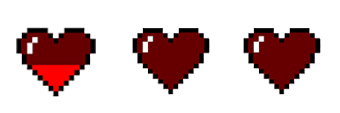
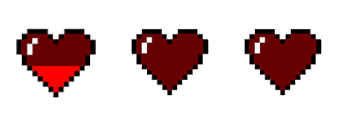
add enemy

diff --git a/ProjectGame/main.cpp b/ProjectGame/main.cpp
@@ -20,6 +20,8 @@ int main()
 	//window
 	sf::RenderWindow window(sf::VideoMode(1000, 768), "OverWhelm!", sf::Style::Titlebar | sf::Style::Close);
 	window.setFramerateLimit(60);
+	sf::Clock clock;
+
 
 	//variable
 	float deltatime = 0.0f;
@@ -28,7 +30,10 @@ int main()
 	int CountBulletEnemymini = 0;
 	int score = 0;
 	int blood = 6;
+	int collistion = 0;
+	float CountTime = 0;
 	srand(time(NULL));
+
 
 	//background
 	sf::Texture bgTexture[2];
@@ -82,7 +87,17 @@ int main()
 	sf::Texture enemySmallOrange;
 	enemySmallOrange.loadFromFile("enemy/mini1.png");
 	Enemy Enemymini1(&enemySmallOrange);
-	vector<Enemy> enemies;
+	vector<Enemy> enemies1;
+
+	sf::Texture enemySmallArmy;
+	enemySmallArmy.loadFromFile("enemy/mini2.png");
+	Enemy Enemymini2(&enemySmallArmy);
+	vector<Enemy> enemies2;
+
+	sf::Texture enemyMediumOrange;
+	enemyMediumOrange.loadFromFile("enemy/medium1.png");
+	Enemy Enemymedium1(&enemyMediumOrange);
+	vector<Enemy> enemies3;
 
 	//enemies animation
 	Animation animation(&enemySmallOrange, sf::Vector2u(1, 3), 0.3f);
@@ -109,7 +124,7 @@ int main()
 	sf::Texture blood3;
 	blood3.loadFromFile("blood/3.png");
 	sf::Sprite bloodHalfnd;
-	bloodHalfnd.setTexture(blood0);
+	bloodHalfnd.setTexture(blood3);
 	bloodHalfnd.setPosition(60, 670);
 	bloodHalfnd.setScale(0.8, 0.8);
 	sf::Texture blood4;
@@ -143,8 +158,6 @@ int main()
 	textscore.setPosition(40, 0);
 	textscore.setCharacterSize(40);
 
-
-	sf::Clock clock;
 
 	while (window.isOpen())
 	{
@@ -193,6 +206,9 @@ int main()
 				break;
 			}
 		}
+	
+		CountTime += deltatime;
+		cout << CountTime << endl;
 
 			//Spacebar KeyPressed 
 			if (firerate < 20) { firerate++; }
@@ -228,52 +244,155 @@ int main()
 			if (enemySpawnTimer >= 50)
 			{
 				Enemymini1.Sprite_enemy.setPosition(window.getSize().x, rand() % int(window.getSize().y - Enemymini1.Sprite_enemy.getSize().y));
-				enemies.push_back(Enemy(Enemymini1));
+				enemies1.push_back(Enemy(Enemymini1));
+
+				if (CountTime >= 30)
+				{
+					Enemymini2.Sprite_enemy.setPosition(window.getSize().x, rand() % int(window.getSize().y - Enemymini2.Sprite_enemy.getSize().y));
+					enemies2.push_back(Enemy(Enemymini2));
+				}
+
+				if (CountTime >= 60)
+				{
+					Enemymedium1.Sprite_enemy.setPosition(window.getSize().x, rand() % int(window.getSize().y - Enemymedium1.Sprite_enemy.getSize().y));
+					enemies3.push_back(Enemy(Enemymedium1));
+				}
 
 				enemySpawnTimer = 0;
 			}
 
-			for (int i = 0; i < enemies.size(); i++)
+			for (int i = 0; i < enemies1.size(); i++)
 			{
-				enemies[i].Update(deltatime , i);
-				/*cout << cos(i) << endl;*/
-				if (enemies[i].Sprite_enemy.getPosition().x < -130)
+				enemies1[i].Update(deltatime , i);
+				if (enemies1[i].Sprite_enemy.getPosition().x < -130)
 				{
-					enemies.erase(enemies.begin() + i);
+					enemies1.erase(enemies1.begin() + i);
+				}
+		
+			}
+
+			for (int i = 0; i < enemies2.size(); i++)
+			{
+				enemies2[i].Update(deltatime, i);
+				if (enemies2[i].Sprite_enemy.getPosition().x < -130)
+				{
+					enemies2.erase(enemies2.begin() + i);
 				}
 
 			}
 
+			for (int i = 0; i < enemies3.size(); i++)
+			{
+				enemies3[i].Update(deltatime, i);
+				if (enemies3[i].Sprite_enemy.getPosition().x < -130)
+				{
+					enemies3.erase(enemies3.begin() + i);
+				}
+
+			}
 
 			//collistion
 			for (size_t i = 0; i < bullets.size(); i++)
 			{
-				for (size_t j = 0; j < enemies.size(); j++)
+				for (size_t j = 0; j < enemies1.size(); j++)
 				{
-					if (bullets[i].Sprite_bullet.getGlobalBounds().intersects(enemies[j].Sprite_enemy.getGlobalBounds()))
+					if (bullets[i].Sprite_bullet.getGlobalBounds().intersects(enemies1[j].Sprite_enemy.getGlobalBounds()))
 					{
+						collistion += 1;
 						bullets.erase(bullets.begin() + i);
-						enemies.erase(enemies.begin() + j);
+						if (collistion == 1)
+						{
+						enemies1.erase(enemies1.begin() + j);
 						score += 10;
+						}
 						//UI
 						textscore.setString("SCORE : " + to_string(score));
 						break;
 					}
+					collistion = 0;
 				}
 
 			}
 
-			//collistion player vs enemy
-			for (size_t i = 0; i < enemies.size(); i++)
+			for (size_t i = 0; i < bullets.size(); i++)
 			{
-				if (player.Sprite_ship.getGlobalBounds().intersects(enemies[i].Sprite_enemy.getGlobalBounds()))
+				for (size_t j = 0; j < enemies2.size(); j++)
 				{
-					enemies.erase(enemies.begin() + i);
+					if (bullets[i].Sprite_bullet.getGlobalBounds().intersects(enemies2[j].Sprite_enemy.getGlobalBounds()))
+					{
+						collistion += 1;
+						bullets.erase(bullets.begin() + i);
+						if (collistion == 1)
+						{
+						enemies2.erase(enemies2.begin() + j);
+						score += 10;
+						}
+						//UI
+						textscore.setString("SCORE : " + to_string(score));
+						break;
+					}
+					collistion = 0;
+				}
+
+			}
+
+
+			for (size_t i = 0; i < bullets.size(); i++)
+			{
+				for (size_t j = 0; j < enemies3.size(); j++)
+				{
+					if (bullets[i].Sprite_bullet.getGlobalBounds().intersects(enemies3[j].Sprite_enemy.getGlobalBounds()))
+					{
+						collistion += 1;
+						bullets.erase(bullets.begin() + i);
+						if (collistion == 2)
+						{
+						enemies3.erase(enemies3.begin() + j);
+						score += 20;
+						}
+						//UI
+						textscore.setString("SCORE : " + to_string(score));
+						break;
+					}
+					collistion = 0;
+				}
+
+			}
+
+
+			//collistion player vs enemy
+			for (size_t i = 0; i < enemies1.size(); i++)
+			{
+				if (player.Sprite_ship.getGlobalBounds().intersects(enemies1[i].Sprite_enemy.getGlobalBounds()))
+				{
+					enemies1.erase(enemies1.begin() + i);
 					blood -= 1;
 				}
 			}
 
+			for (size_t i = 0; i < enemies2.size(); i++)
+			{
+				if (player.Sprite_ship.getGlobalBounds().intersects(enemies2[i].Sprite_enemy.getGlobalBounds()))
+				{
+					enemies2.erase(enemies2.begin() + i);
+					blood -= 1;
+				}
+			}
 			
+			for (size_t i = 0; i < enemies3.size(); i++)
+			{
+				if (player.Sprite_ship.getGlobalBounds().intersects(enemies3[i].Sprite_enemy.getGlobalBounds()))
+				{
+					enemies3.erase(enemies3.begin() + i);
+					blood -= 1;
+				}
+			}
+
+			//game over
+			/*if (blood <= -1)
+			{
+				window.clear();
+			}*/
 
 			for (Background& background : backgrounds)
 				background.Update(deltatime);
@@ -301,10 +420,21 @@ int main()
 			}
 
 			//draw enemy
-			for (int i = 0; i < enemies.size(); i++)
+			for (int i = 0; i < enemies1.size(); i++)
 			{
-				enemies[i].Draw(window);
+				enemies1[i].Draw(window);
 			}
+
+			for (int i = 0; i < enemies2.size(); i++)
+			{
+				enemies2[i].Draw(window);
+			}
+
+			for (int i = 0; i < enemies3.size(); i++)
+			{
+				enemies3[i].Draw(window);
+			}
+
 
 			//draw player
 			player.Draw(window);
